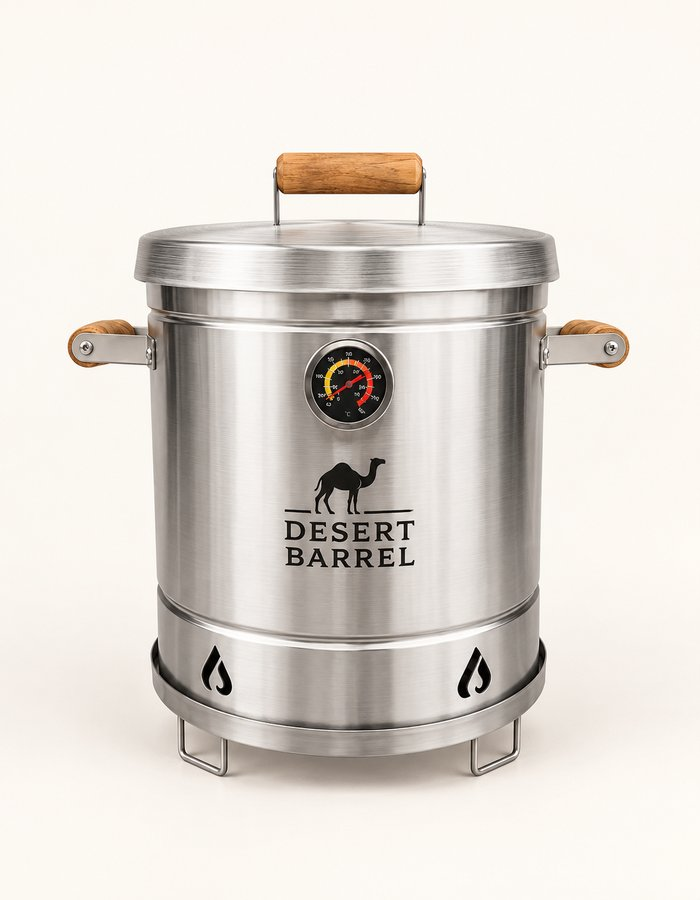
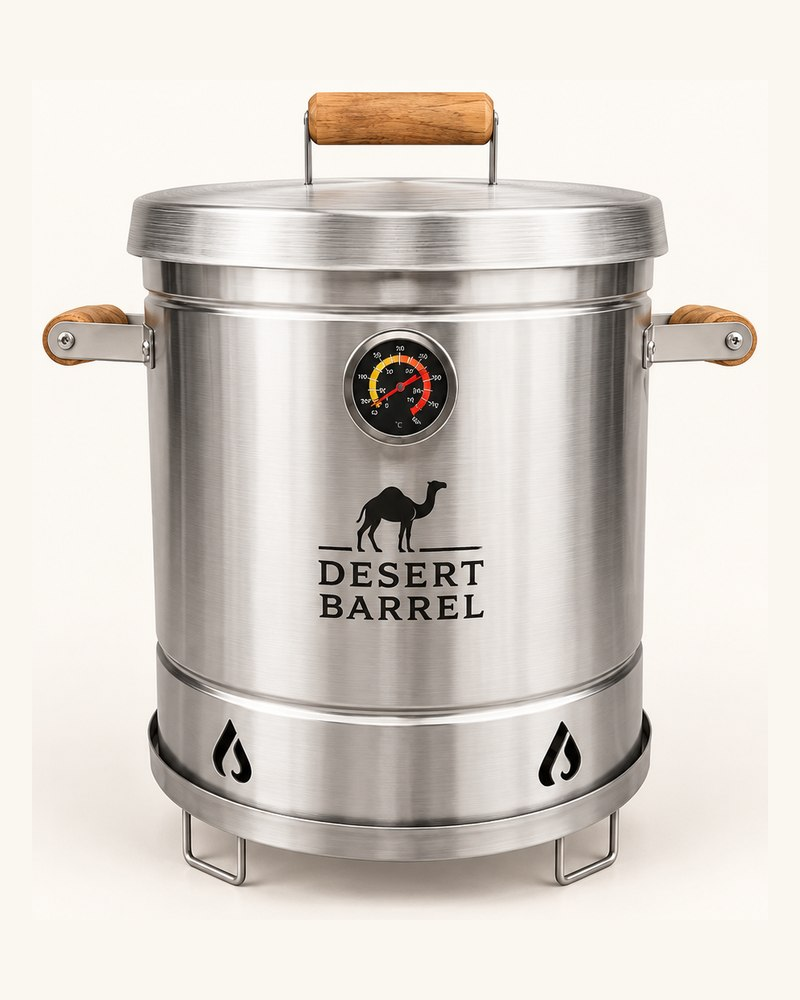
Normalize product photo scale across catalog cards
The 4 source photos had inconsistent zoom levels (barrel bounding-box
height ranged from 71% to 92% of frame), so the catalog cards showed
the barrel at noticeably different scales and cropped some at the
base. Detects each barrel's bounding box, crops tightly around it, and
re-composes each onto a shared 4:5 cream canvas at the same target
height so all 4 products now read at a consistent scale. Updates
.product-media to use aspect-ratio instead of a fixed pixel height so
the card scales responsively without cropping.

Claude-Session: https://claude.ai/code/session_018NqzqfYH3v8pxwXm3a87Gn

Changed region(s): [[0.03, 0.0933, 0.96, 0.9333]]

diff --git a/desert-barrel-website/css/styles.css b/desert-barrel-website/css/styles.css
@@ -276,7 +276,7 @@ img, svg { display: block; max-width: 100%; }
   z-index: 2;
 }
 .product-media {
-  height: 200px;
+  aspect-ratio: 4 / 5;
   display: flex;
   align-items: center;
   justify-content: center;
@@ -289,7 +289,6 @@ img, svg { display: block; max-width: 100%; }
   width: 100%;
   height: 100%;
   object-fit: cover;
-  object-position: center 20%;
   display: block;
 }
 .product-card h3 { font-size: 1.15rem; margin-bottom: 0.3em; }
